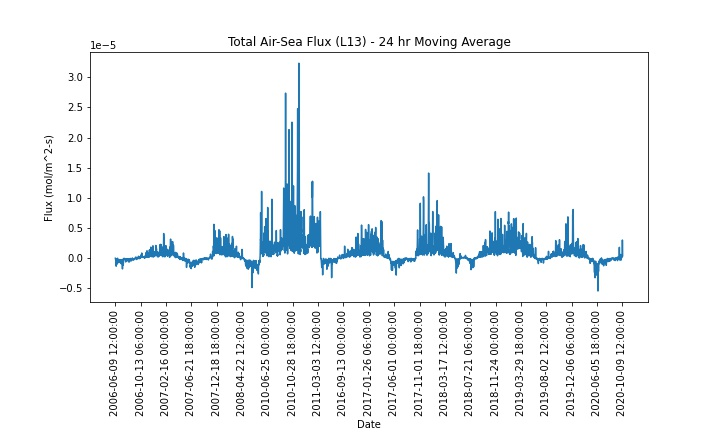
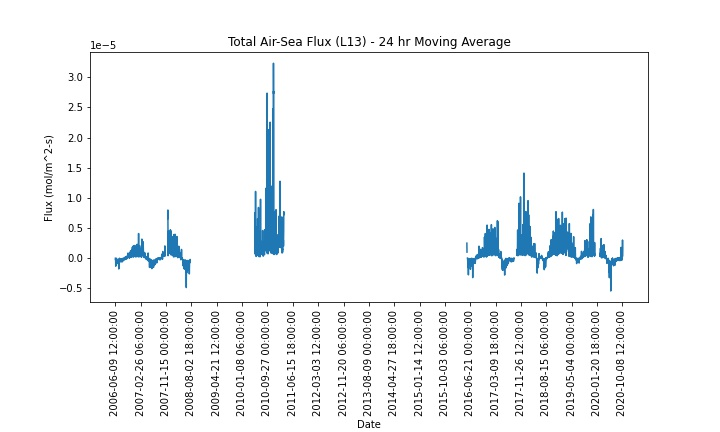
Figured out issues with dates, next step: plot different parameterizations

diff --git a/GasFluxTimeSeries.py b/GasFluxTimeSeries.py
@@ -41,12 +41,14 @@ for data_i in data_types:
         print('\n%% Loading BC Float Data %%\n')
         CSVDir_AS='/Users/Ellen/Documents/GitHub/BGCArgo_BCGyre/CSVFiles/O2Flux/AirSeaO2Flux_BCFloats_'
         FigDir='/Users/Ellen/Documents/GitHub/BGCArgo_BCGyre/Figures/O2Flux_TimeSeries/BC_'
+        title_add='LS-BC Floats'
     elif data_i == 1:
         # Load Lab Gyre float data
         print('\n%% Loading Lab Sea Gyre Float Data %%\n')
         CSVDir_AS='/Users/Ellen/Documents/GitHub/BGCArgo_BCGyre/CSVFiles/O2Flux/AirSeaO2Flux_LabradorFloats_'
         FigDir='/Users/Ellen/Documents/GitHub/BGCArgo_BCGyre/Figures/O2Flux_TimeSeries/LabSea_'
-    
+        title_add='LS-G Floats'
+        
     FileList=glob.glob(CSVDir_AS+'*.csv')
     df_count = 0
     
@@ -114,94 +116,149 @@ for data_i in data_types:
     StdData=AllData.groupby(by='Date').std()
     
     date_list=MeanData.index.values.tolist()
+    FirstDate=date_list[0]
+    LastDate=date_list[-1]
+    
+    # Get full range of dates in between first and last profile date
+    AllDates_df=pd.date_range(str(FirstDate),str(LastDate),freq='6H')
+    AllDates=[[]]*len(AllDates_df)
+    for i in np.arange(len(AllDates)):
+        AllDates[i]=str(AllDates_df[i])
+    AllDates=np.array(AllDates)
+    
+    ## N16 ##
+    Ft_N16=np.zeros(len(AllDates_df))
+    Ft_N16[:]=np.NaN
+    Fd_N16=np.zeros(len(AllDates_df))
+    Fd_N16[:]=np.NaN
+    Fp_N16=np.zeros(len(AllDates_df))
+    Fp_N16[:]=np.NaN
+    Fc_N16=np.zeros(len(AllDates_df))
+    Fc_N16[:]=np.NaN
+    
+    ## L13 ##
+    Ft_L13=np.zeros(len(AllDates_df))
+    Ft_L13[:]=np.NaN
+    Fd_L13=np.zeros(len(AllDates_df))
+    Fd_L13[:]=np.NaN
+    Fp_L13=np.zeros(len(AllDates_df))
+    Fp_L13[:]=np.NaN
+    Fc_L13=np.zeros(len(AllDates_df))
+    Fc_L13[:]=np.NaN  
+    
+    # Go through dates and match data to correct time period
+    for j in np.arange(len(date_list)):
+        date_ind=np.where(AllDates == date_list[j])
+        
+        # Mean Data column values
+        # 1: WMO, 2: Lat, 3: Lon, 
+        # 4: Fp_l13, 5:Fc_L13, 6: Fd_L13, 7 Ft_L13
+        # 8: Fp_N16, 9: Fc_N16, 10: Fd_N16, 11 Ft_N16
+        Ft_N16[date_ind]=MeanData.iloc[j,11]
+        Fd_N16[date_ind]=MeanData.iloc[j,10]
+        Fp_N16[date_ind]=MeanData.iloc[j,8]
+        Fc_N16[date_ind]=MeanData.iloc[j,9]
+    
+        Ft_L13[date_ind]=MeanData.iloc[j,7]
+        Fd_L13[date_ind]=MeanData.iloc[j,6]
+        Fp_L13[date_ind]=MeanData.iloc[j,4]
+        Fc_L13[date_ind]=MeanData.iloc[j,5]
+    
     num_ticks=20
-    xticks_ind=np.arange(0,(len(date_list)//num_ticks*num_ticks)+1, step=len(date_list)//num_ticks)
+    xticks_ind=np.arange(0,(len(AllDates)//num_ticks*num_ticks)+1, step=len(AllDates)//num_ticks)
     xticks_labels=[]
     for i in xticks_ind:
-        xticks_labels=xticks_labels+[date_list[i]]
+        xticks_labels=xticks_labels+[AllDates[i]]
     
     print('\n%% Plotting Gas Flux Time Series %%\n')
     
     ## Raw Data ##
     plt.figure(figsize=(fsize_x,fsize_y))
-    plt.plot(date_list, MeanData.loc[:,'Ft_N16'])
-    #plt.fill_between(date_list, MeanData.loc[:,'Ft_N16']+StdData.loc[:,'Ft_N16'],MeanData.loc[:,'Ft_N16']-StdData.loc[:,'Ft_N16'])
+    plt.plot(AllDates, Ft_N16)
+    #plt.scatter(AllDates, Ft_N16, s=1)
     plt.xticks(ticks=xticks_ind,labels=xticks_labels, rotation=90)
     plt.xlabel('Date')
     plt.ylabel('Flux (mol/m^2-s)')
-    plt.title('Total Air-Sea Flux (N16) - Raw')
+    plt.title('Total Air-Sea Flux (N16) - '+title_add+' - Raw)
     plt.subplots_adjust(bottom=0.3)
     plt.savefig(FigDir+'N16_Raw.jpg')
     plt.close()
     
     plt.figure(figsize=(fsize_x,fsize_y))
-    plt.plot(date_list, MeanData.loc[:,'Ft_L13'])
-    #plt.fill_between(date_list, MeanData.loc[:,'Ft_L13']+StdData.loc[:,'Ft_L13'],MeanData.loc[:,'Ft_L13']-StdData.loc[:,'Ft_L13'])
+    plt.plot(AllDates, Ft_L13)
+    #plt.scatter(AllDates, Ft_L13, s=1)
     plt.xticks(ticks=xticks_ind,labels=xticks_labels, rotation=90)
     plt.xlabel('Date')
     plt.ylabel('Flux (mol/m^2-s)')
-    plt.title('Total Air-Sea Flux (L13) - Raw')
+    plt.title('Total Air-Sea Flux (L13) - '+title_add+' - Raw')
     plt.subplots_adjust(bottom=0.3)
     plt.savefig(FigDir+'L13_Raw.jpg')
     plt.close()
     
     ## Moving Average: 24 hrs ##
-    Ft_N16_24hr=MeanData.loc[:,'Fd_N16'].rolling(int((24/6)),min_periods=1).mean()+MeanData.loc[:,'Fp_N16'].rolling(int((24/6)),min_periods=1).mean()+MeanData.loc[:,'Fc_N16'].rolling(int((24/6)),min_periods=1).mean()
-    Ft_L13_24hr=MeanData.loc[:,'Fd_L13'].rolling(int((24/6)),min_periods=1).mean()+MeanData.loc[:,'Fp_L13'].rolling(int((24/6)),min_periods=1).mean()+MeanData.loc[:,'Fc_L13'].rolling(int((24/6)),min_periods=1).mean()
+    Ft_N16_24hr=pd.Series(Fd_N16).rolling(int((24/6)),min_periods=1).mean()+pd.Series(Fp_N16).rolling(int((24/6)),min_periods=1).mean()+pd.Series(Fc_N16).rolling(int((24/6)),min_periods=1).mean()
+    Ft_L13_24hr=pd.Series(Fd_L13).rolling(int((24/6)),min_periods=1).mean()+pd.Series(Fp_L13).rolling(int((24/6)),min_periods=1).mean()+pd.Series(Fc_L13).rolling(int((24/6)),min_periods=1).mean()
     
     plt.figure(figsize=(fsize_x,fsize_y))
-    plt.plot(date_list, Ft_N16_24hr)
+    plt.plot(AllDates, Ft_N16_24hr)
+    #plt.scatter(AllDates, Ft_N16_24hr,s=1)
     plt.xticks(ticks=xticks_ind,labels=xticks_labels, rotation=90)
     plt.xlabel('Date')
     plt.ylabel('Flux (mol/m^2-s)')
-    plt.title('Total Air-Sea Flux (N16) - 24 hr Moving Average')
+    plt.title('Total Air-Sea Flux (N16) - '+title_add+' - 24 hr Moving Average')
     plt.subplots_adjust(bottom=0.3)
     plt.savefig(FigDir+'N16_24hr.jpg')
     plt.close()
     
     plt.figure(figsize=(fsize_x,fsize_y))
-    plt.plot(date_list,Ft_L13_24hr)
+    plt.plot(AllDates,Ft_L13_24hr)
+    #plt.scatter(AllDates,Ft_L13_24hr,s=1)
     plt.xticks(ticks=xticks_ind,labels=xticks_labels, rotation=90)
     plt.xlabel('Date')
     plt.ylabel('Flux (mol/m^2-s)')
-    plt.title('Total Air-Sea Flux (L13) - 24 hr Moving Average')
+    plt.title('Total Air-Sea Flux (L13) - '+title_add+' - 24 hr Moving Average')
     plt.subplots_adjust(bottom=0.3)
     plt.savefig(FigDir+'L13_24hr.jpg')
     plt.close()
     
     ## Moving Average: 1 week ##
-    Ft_N16_1wk=MeanData.loc[:,'Fd_N16'].rolling(int((7*24)/6),min_periods=1).mean()+MeanData.loc[:,'Fp_N16'].rolling(int((7*24)/6),min_periods=1).mean()+MeanData.loc[:,'Fc_N16'].rolling(int((7*24)/6),min_periods=1).mean()
-    Ft_L13_1wk=MeanData.loc[:,'Fd_L13'].rolling(int((7*24)/6),min_periods=1).mean()+MeanData.loc[:,'Fp_L13'].rolling(int((7*24)/6),min_periods=1).mean()+MeanData.loc[:,'Fc_L13'].rolling(int((7*24)/6),min_periods=1).mean()
+    Ft_N16_1wk=pd.Series(Fd_N16).rolling(int((7*24)/6),min_periods=1).mean()+pd.Series(Fp_N16).rolling(int((7*24)/6),min_periods=1).mean()+pd.Series(Fc_N16).rolling(int((7*24)/6),min_periods=1).mean()
+    Ft_L13_1wk=pd.Series(Fd_L13).rolling(int((7*24)/6),min_periods=1).mean()+pd.Series(Fp_L13).rolling(int((7*24)/6),min_periods=1).mean()+pd.Series(Fc_L13).rolling(int((7*24)/6),min_periods=1).mean()
     
     plt.figure(figsize=(fsize_x,fsize_y))
-    plt.plot(date_list, Ft_N16_1wk)
+    plt.plot(AllDates, Ft_N16_1wk)
+    #plt.scatter(AllDates, Ft_N16_1wk,s=1)
     plt.xticks(ticks=xticks_ind,labels=xticks_labels, rotation=90)
     plt.xlabel('Date')
     plt.ylabel('Flux (mol/m^2-s)')
-    plt.title('Total Air-Sea Flux (N16) - 1 week Moving Average')
+    plt.title('Total Air-Sea Flux (N16) - '+title_add+' - 1 week Moving Average')
     plt.subplots_adjust(bottom=0.3)
     plt.savefig(FigDir+'N16_1wk.jpg')
     plt.close()
     
     
     plt.figure(figsize=(fsize_x,fsize_y))
-    plt.plot(date_list, Ft_L13_1wk)
+    plt.plot(AllDates, Ft_L13_1wk)
+    #plt.scatter(AllDates, Ft_L13_1wk,s=1)
     plt.xticks(ticks=xticks_ind,labels=xticks_labels, rotation=90)
     plt.xlabel('Date')
     plt.ylabel('Flux (mol/m^2-s)')
-    plt.title('Total Air-Sea Flux (L13) - 1 week Moving Average')
+    plt.title('Total Air-Sea Flux (L13) - '+title_add+' - 1 week Moving Average')
     plt.subplots_adjust(bottom=0.3)
     plt.savefig(FigDir+'L13_1wk.jpg')
     plt.close()
     
+    flux_types=['Fp_L13', 'Fc_L13', 'Fd_L13','Ft_L13','Fp_N16','Fc_N16','Fd_N16','Ft_N16']
     if data_i == 0:
-        dates_BC=date_list
-        data_BC=MeanData.loc[:,'Ft_N16']
+        dates_BC=np.array(date_list)
+        data_BC=MeanData.loc[:,flux_types]
     elif data_i ==1:
-        dates_LSG=date_list
-        data_LSG=MeanData.loc[:,'Ft_N16']
+        dates_LSG=np.array(date_list)
+        data_LSG=MeanData.loc[:,flux_types]
 
 # Make complete date range for data
+print('\n%% Comparing Gas Flux Time Series %%\n')
+
 min_flag = np.NaN
 # min_flag = 0; min date is LSG
 # min_flag = 1; min date is BC
@@ -218,42 +275,87 @@ if dates_LSG[-1]>dates_BC[-1]:
 else:
     MaxDate=dates_BC[-1]
     
-dates_total=pd.date_range(MinDate,MaxDate,freq='6H')
+dates_total_df=pd.date_range(str(MinDate),str(MaxDate),freq='6H')
+dates_total=[[]]*len(dates_total_df)
+for i in np.arange(len(dates_total_df)):
+    dates_total[i]=str(dates_total_df[i])
+dates_total=np.array(dates_total)
+
+######### BC #########
+## N16 ##
 BC_N16=np.zeros(len(dates_total))
 BC_N16[:]=np.NaN
+
+BC_N16_24hr=np.zeros(len(dates_total))
+BC_N16_24hr[:]=np.NaN
+
+BC_N16_1wk=np.zeros(len(dates_total))
+BC_N16_1wk[:]=np.NaN
+
+## L13 ##
+BC_L13=np.zeros(len(dates_total))
+BC_L13[:]=np.NaN
+
+BC_L13_24hr=np.zeros(len(dates_total))
+BC_L13_24hr[:]=np.NaN
+
+BC_L13_1wk=np.zeros(len(dates_total))
+BC_L13_1wk[:]=np.NaN
+
+######### LSG #########
+## N16 ##
 LSG_N16=np.zeros(len(dates_total))
 LSG_N16[:]=np.NaN
 
-if min_flag == 0:
-    LSG_N16[0:len(data_LSG)]=data_LSG
-    startind=FindInd(ThingToSearch=dates_total, ThingLookingFor=dates_BC[0])
-    endind=startind+len(dates_BC)
-    BC_N16[startind:endind]=data_BC
-    # Check that ends match
-    if (str(dates_total[len(data_LSG)-1])==dates_LSG[-1] and str(dates_total[endind])==dates_BC[-1]):
-        print('Everything Matches')
-    else:
-        print('ERROR!')
+LSG_N16_24hr=np.zeros(len(dates_total))
+LSG_N16_24hr[:]=np.NaN
+
+LSG_N16_1wk=np.zeros(len(dates_total))
+LSG_N16_1wk[:]=np.NaN
+
+## L13 ##
+LSG_L13=np.zeros(len(dates_total))
+LSG_L13[:]=np.NaN
+
+LSG_L13_24hr=np.zeros(len(dates_total))
+LSG_L13_24hr[:]=np.NaN
+
+LSG_L13_1wk=np.zeros(len(dates_total))
+LSG_L13_1wk[:]=np.NaN
+
+# BC floats
+for i in np.arange(len(dates_BC)):
+    date_ind=np.where(dates_total == dates_BC[i])
+    # if dates_total[date_ind] != dates_BC[i]:
+    #     print(date_ind)
+    BC_N16[date_ind]=data_BC[i]
+
+# LSG floats
+for i in np.arange(len(dates_LSG)):
+    date_ind=np.where(dates_total == dates_LSG[i])
+    # if dates_total[date_ind] != dates_LSG[i]:
+    #     print(date_ind)
+    LSG_N16[date_ind]=data_LSG[i]
+
+# Make figure labels
+num_ticks=20
+xticks_ind2=np.arange(0,(len(dates_total)//num_ticks*num_ticks)+1, step=len(dates_total)//num_ticks)
+xticks_labels2=[]
+for i in xticks_ind2:
+    xticks_labels2=xticks_labels2+[dates_total[i]]
     
-elif min_flag ==1:
-    BC_N16[0:len(data_BC)]=data_BC
-    startind=FindInd(ThingToSearch=dates_total, ThingLookingFor=dates_LSG[0])
-    endind=startind+len(dates_LSG)
-    LSG_N16[startind:endind]=data_LSG
-     
-    # Check that ends match
-    if (dates_total[len(data_BC)-1]==dates_BC[-1] and dates_total[endind]==dates_LSG[-1]):
-        print('Everything Matches')
-    else:
-        print('ERROR!')
-        
-# plt.figure(figsize=(fsize_x,fsize_y))
-# plt.scatter(dates_LSG,data_LSG, s= 1)
-# plt.scatter(dates_BC,data_BC, s=1)
-# plt.legend(['LS-BC','LS-G'])
-# plt.xticks(ticks=xticks_ind,labels=xticks_labels, rotation=90)
-# plt.subplots_adjust(bottom=0.3)
-# plt.savefig('/Users/Ellen/Documents/GitHub/BGCArgo_BCGyre/Figures/O2Flux_TimeSeries/CompareFlux.jpg')
+plt.figure(figsize=(fsize_x,fsize_y))
+plt.plot(dates_total,BC_N16)
+plt.plot(dates_total,LSG_N16)
+# plt.scatter(dates_total,BC_N16, s=1)
+# plt.scatter(dates_total,LSG_N16, s= 1)
+plt.legend(['LS-BC','LS-G'])
+plt.xticks(ticks=xticks_ind2,labels=xticks_labels2, rotation=90)
+plt.xlabel('Date')
+plt.ylabel('Flux (mol/m^2-s)')
+plt.title('Total Air Sea Gass Flux (N16) - Raw')
+plt.subplots_adjust(bottom=0.3)
+plt.savefig('/Users/Ellen/Documents/GitHub/BGCArgo_BCGyre/Figures/O2Flux_TimeSeries/CompareFlux_N16_Raw.jpg')
 
 
 
